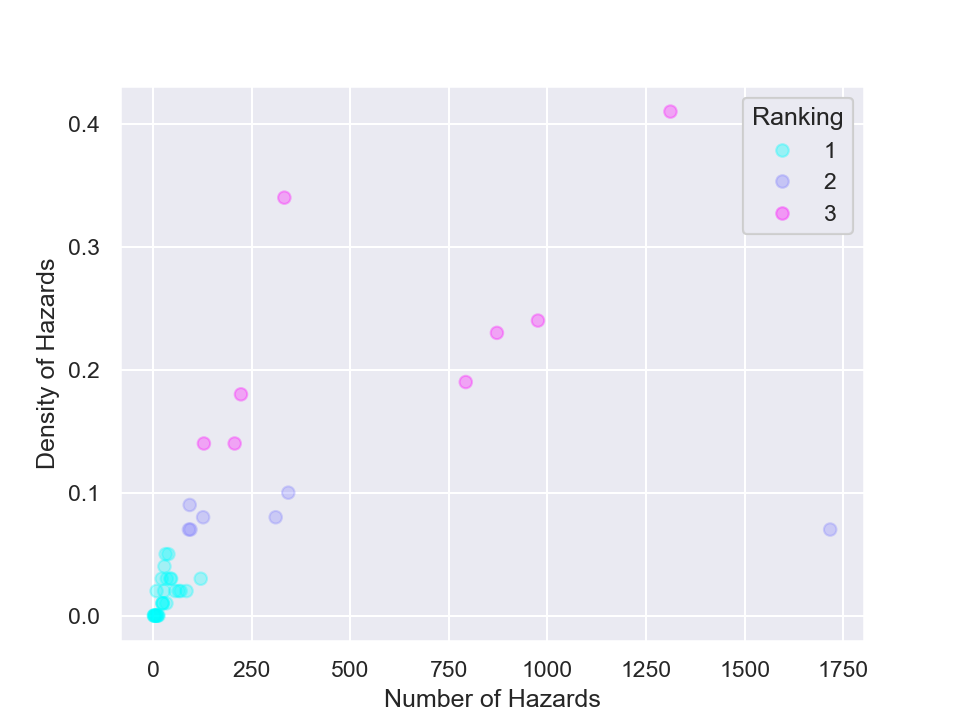
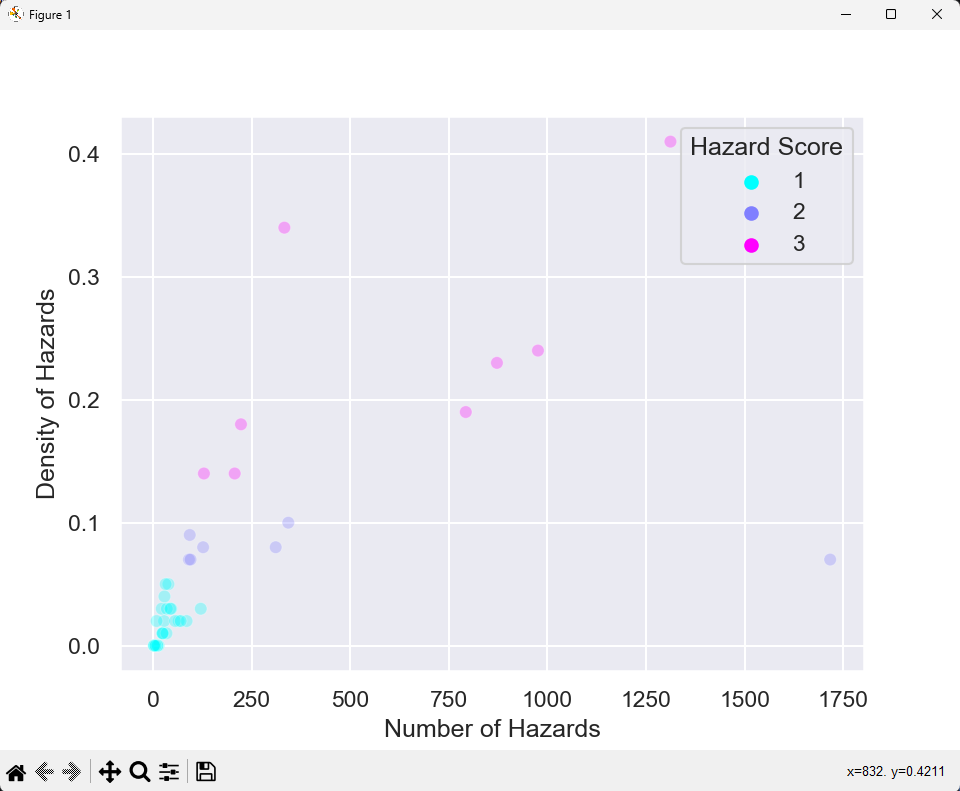
Updates to the readme for better plotting options

diff --git a/src/ippsra/plot_utils.py b/src/ippsra/plot_utils.py
@@ -28,7 +28,7 @@ xlabel_scat = 'Number of Hazards'
 sns.set(style="darkgrid")
 
 
-def scatter_plot(data, save, showImages, fileName):
+def scatter_plot(data, save, showPlots, fileName):
     """A scatter plot to show the relationship between the number of hazards
 
     Args:
@@ -40,19 +40,15 @@ def scatter_plot(data, save, showImages, fileName):
     Hazard_score = data['Hazard Score']
 
     fig, ax = plt.subplots(dpi=150)
-    scatter = ax.scatter(Hazards, Density, c=Hazard_score, cmap='cool',
-                         alpha=0.3)
-    fig, plt.ylabel(ylabel_scat)
-    fig, plt.xlabel(xlabel_scat)
-    legend1 = ax.legend(*scatter.legend_elements(), title="Ranking")
-    ax.add_artist(legend1)
+    sns.scatterplot(x=Hazards, y=Density, hue=Hazard_score, palette="cool",
+                    alpha=alpha, legend="full")
     if save == 'True':
         fig, plt.savefig(fileName)
-    if showImages == 'True':
+    if showPlots == 'True':
         plt.show()
 
 
-def violinplot(data, save, showImages, fileName):
+def violinplot(data, save, showPlots, fileName):
     """A violin plot to show the distribution of the hazard score
 
     Args:
@@ -65,9 +61,34 @@ def violinplot(data, save, showImages, fileName):
     fig1, sns.violinplot(x=Hazard_score, y=Density)
     if save == 'True':
         fig1, plt.savefig(fileName)
-    if showImages == 'True':
+    if showPlots == 'True':
         plt.show()
 
+
+def scat_violin(data, save, showPlots, fileName):
+    """A violin plot to show the distribution of the hazard score
+
+    Args:
+        data (csv): The data file created from the rank_images script
+    """
+    alpha = 0.3
+    Hazards = data['Number of Hazards']
+    Density = data['Density of Hazards']
+    Hazard_score = data['Hazard Score']
+
+    fig2, ax = plt.subplots(nrows=1, ncols=2, figsize=(10, 5))
+
+    # # Plot the scatter plot
+    sns.scatterplot(x=Hazards, y=Density, hue=Hazard_score, palette="cool",
+                    alpha=alpha, legend="full", ax=ax[0])
+
+    # Plot the violin plot
+    sns.violinplot(x=Hazard_score, y=Density, ax=ax[1])
+
+    if save == 'True':
+        fig2, plt.savefig(fileName)
+    if showPlots == 'True':
+        plt.show()
 
 def show_img(img, save, showImages, fileName):
     """This function shows an image in the window

diff --git a/src/ippsra/rank_images.py b/src/ippsra/rank_images.py
@@ -62,7 +62,7 @@ def get_args():
     return parser.parse_args()
 
 
-def rank_images():
+def rank_images():  # sourcery skip: extract-method
     """The main script in this repository that will iterate through a directory
     and output ranked data to a CSV file in the name of the user's choice and
     location.
@@ -166,8 +166,10 @@ def rank_images():
             # Plotting the data
             fileNameScat = os.path.join(fileName + 'scatter_plot.png')
             fileNameViol = os.path.join(fileName + 'violin_plot.png')
-            pu.scatter_plot(sorted_image_info, save, showImages, fileNameScat)
-            pu.violinplot(sorted_image_info, save, showImages, fileNameViol)
+            fileNameBoth = os.path.join(fileName + 'scat_viol.png')
+            pu.scatter_plot(sorted_image_info, save, showPlots, fileNameScat)
+            pu.violinplot(sorted_image_info, save, showPlots, fileNameViol)
+            pu.scat_violin(sorted_image_info, save, showPlots, fileNameBoth)
 
         # Show all images if requested
         if showImages == 'True':

diff --git a/README.md b/README.md
@@ -108,9 +108,14 @@ There are 41 images in this dir
 
   ### Sample Images and Graphs
 - Bellow are the sample images and graphs that can be created out--of--the--box
+- Scatter plot for the data
 <center><img src="/docs/img/scatter.png" width="100%"/></center>
 
+- Violin plot for the data
 <center><img src="/docs/img/violin.png" width="100%"/></center>
+
+- Both plots side by side
+<center><img src="/docs/img/scat_viol.png" width="100%"/></center>
 
 - This first lunar image is the best image from the ranking
 <center><img src="/docs/img/BestLunar.png" width="100%"/></center>
